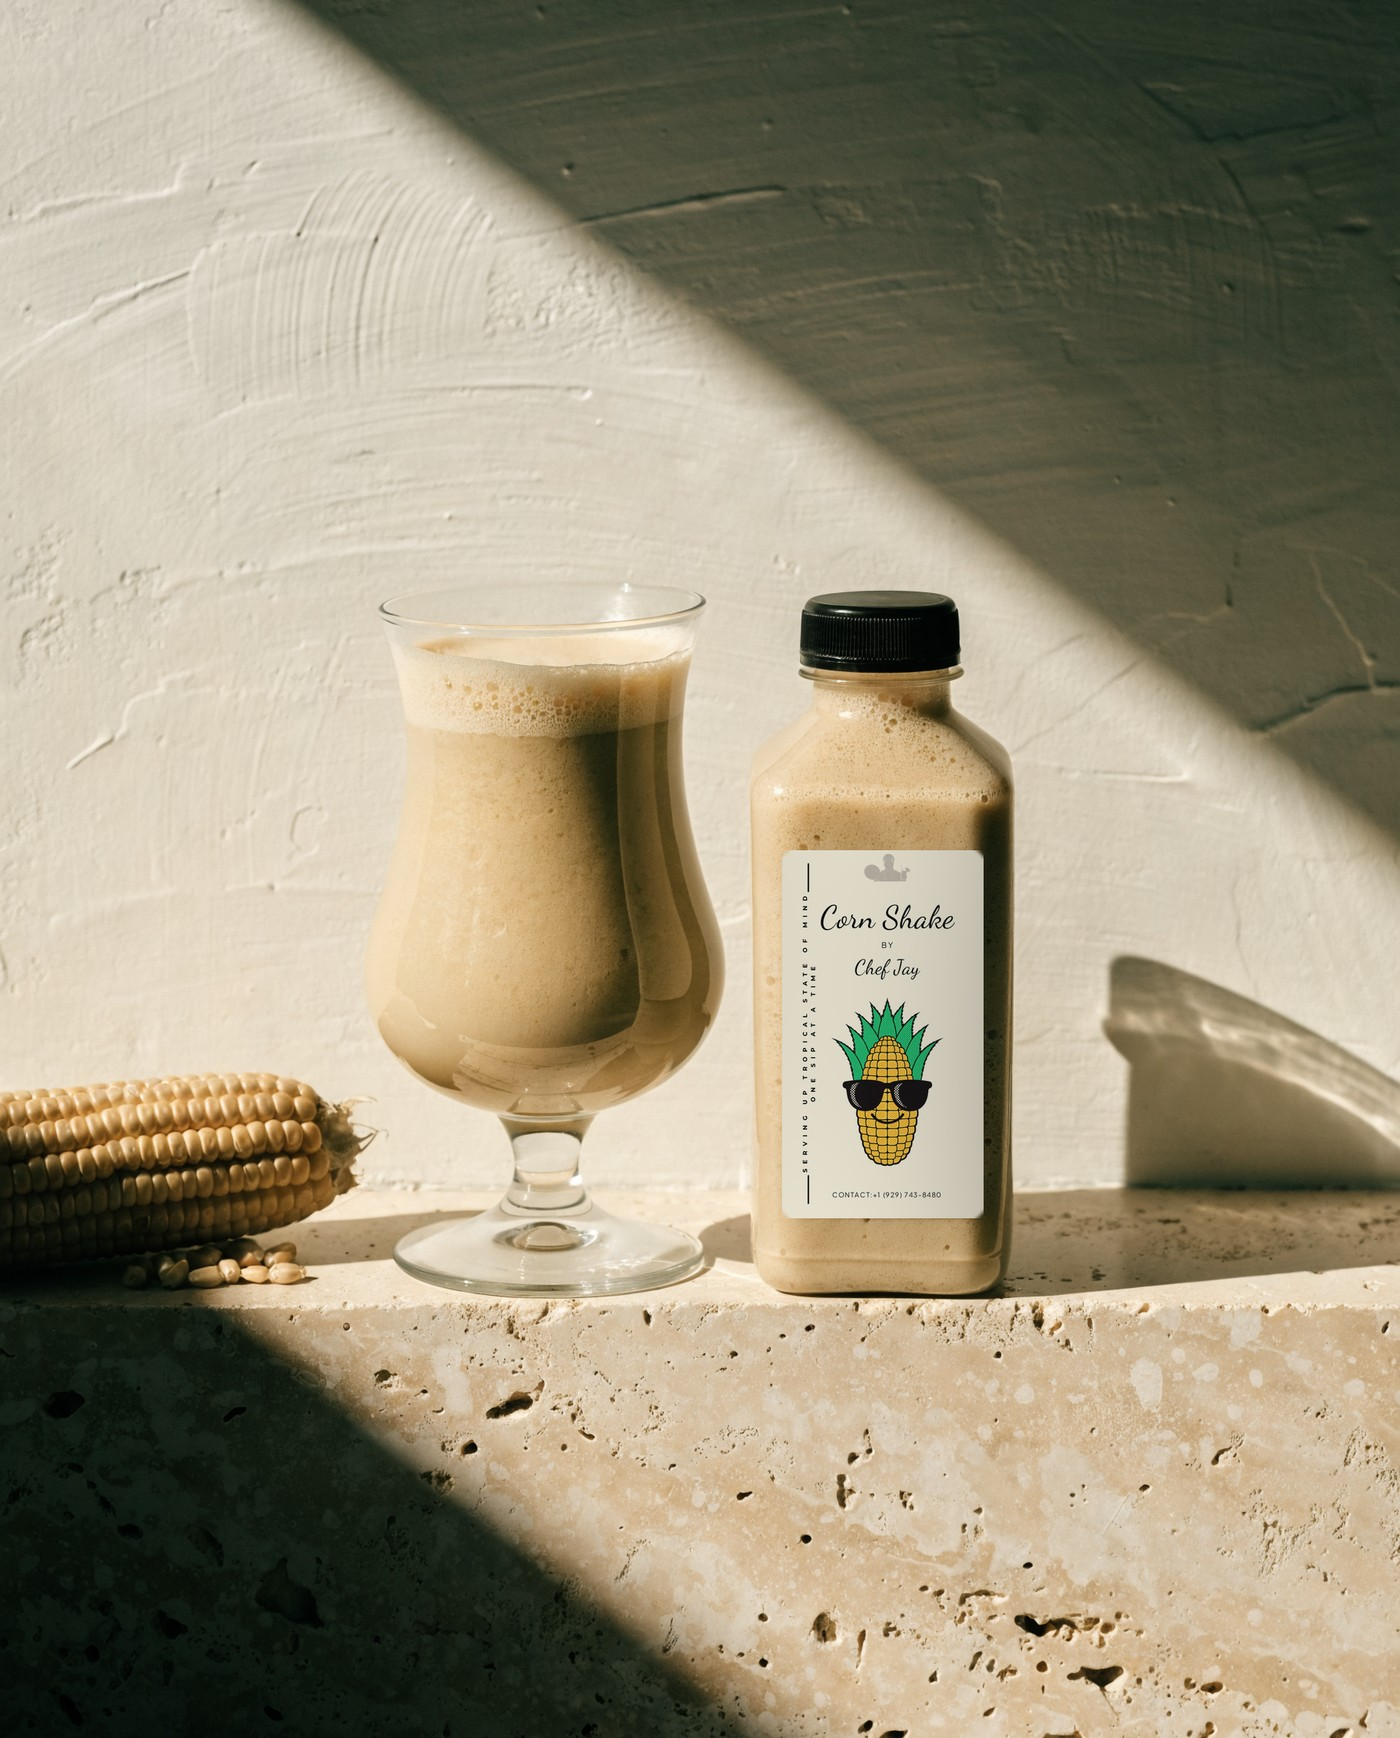
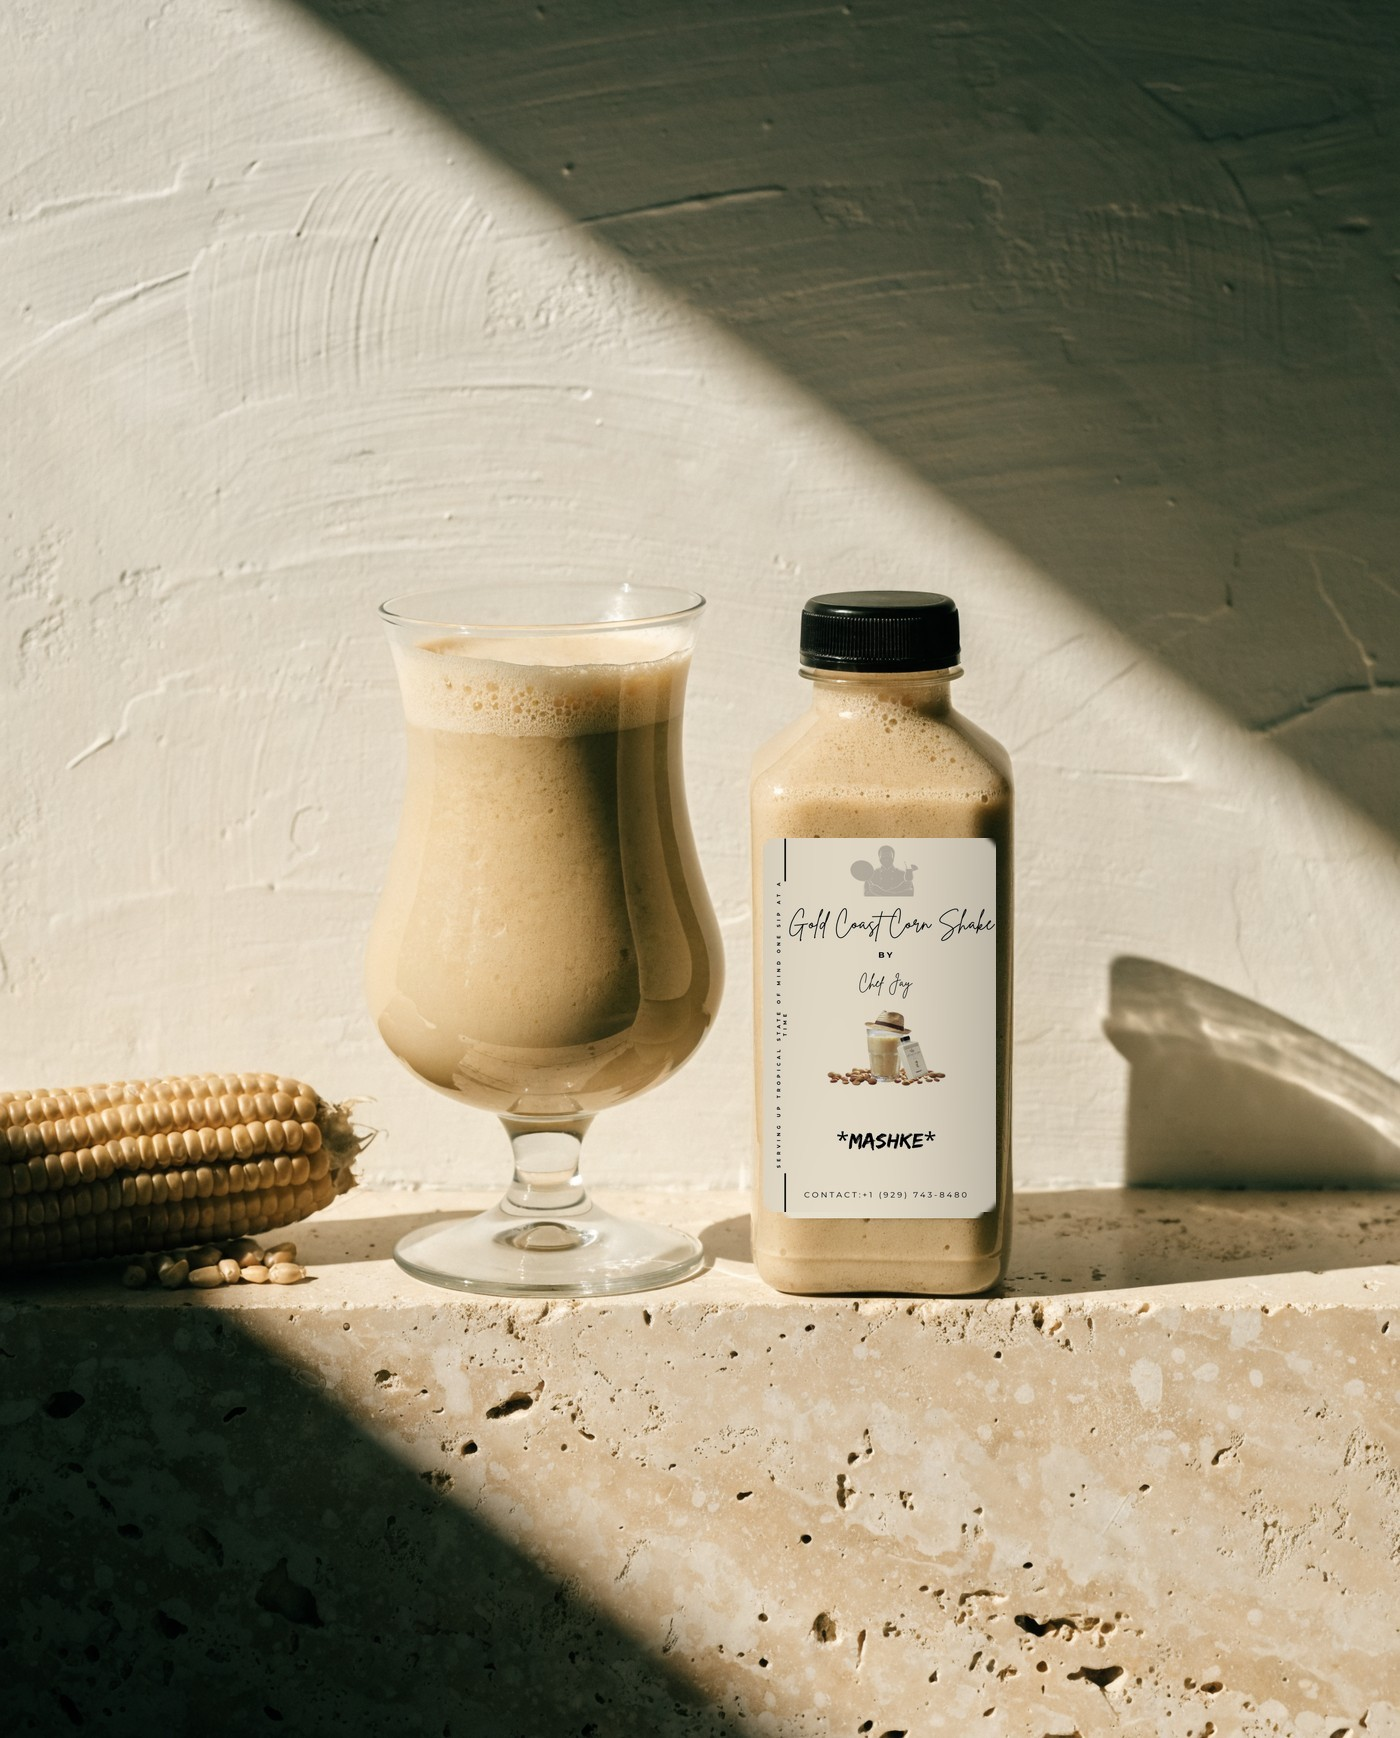
Real labels on the corn shake, and Fura alongside it
The Gold Coast Corn Shake wears its own artwork now, replacing the stand-in I
built from the Classic label — the real one carries the *MASHKE* flash, the
photograph of the drink, and the 929 number.

Fura-liscious joins at the same prices, $6.99 and $9.99. Its photograph is the
house setup, and its label needed letterboxing rather than stretching: the
blank panel on the bottle came out narrower in proportion than the artwork, and
squeezing type by 18% to fill it would have been visible. It sits on its own
paper colour instead, with margins above and below.

Both labels came in at 480x825 rather than 450x825, and both carry the current
phone number — the only two bottles on the site that do.

Its ingredient list is empty, as the corn shake's was: fura is usually
milk-based, and a guess about an allergen does not belong on a product page.
Needs the kitchen's list before this one is really finished.

Four places counted the drinks. All now say "eight coladas, and two from home".

Changed region(s): [[0.5221, 0.4661, 0.7371, 0.7146]]

diff --git a/src/app/(site)/shop/page.tsx b/src/app/(site)/shop/page.tsx
@@ -11,7 +11,7 @@ import { money } from "@/lib/format";
 export const metadata: Metadata = {
   title: "Shop",
   description:
-    "Eight piña coladas made to order — classic, mango, tigernut, peach, passion fruit, strawberry, raspberry and a less-sweet classic — plus the Gold Coast Corn Shake, iced kenkey by the bottle.",
+    "Eight piña coladas made to order — classic, mango, tigernut, peach, passion fruit, strawberry, raspberry and a less-sweet classic — plus the Gold Coast Corn Shake and Fura-liscious, iced kenkey and millet fura by the bottle.",
 };
 
 export default function ShopPage() {
@@ -19,7 +19,7 @@ export default function ShopPage() {
     <Container className="py-20 sm:py-28">
       <div className="flex flex-wrap items-baseline justify-between gap-4">
         <div>
-          <Eyebrow>Eight coladas, one corn shake</Eyebrow>
+          <Eyebrow>Eight coladas, and two from home</Eyebrow>
           <h1 className="mt-3 font-display text-5xl font-semibold leading-[0.95] sm:text-6xl">
             The fridge
           </h1>

diff --git a/src/lib/catalog.ts b/src/lib/catalog.ts
@@ -148,6 +148,19 @@ export const products: Product[] = [
     tags: ["Alcohol-free", "Contains milk"],
   },
   {
+    slug: "fura",
+    name: "Fura-liscious",
+    category: "drink",
+    blurb: "Northern Ghana's millet drink, blended smooth and poured cold.",
+    image: "/images/fura.jpg",
+    // Empty until the kitchen confirms it. Fura is usually milk-based, and
+    // milk is an allergen — a guess on a product page is worse than silence.
+    ingredients: [],
+    // Priced with the corn shake: $6.99 and $9.99.
+    sizes: size(699, 999),
+    tags: ["Alcohol-free"],
+  },
+  {
     slug: "raspberry-pina-colada",
     name: "Raspberry Piña Colada",
     category: "drink",

diff --git a/src/lib/site.ts b/src/lib/site.ts
@@ -13,7 +13,7 @@ export const site = {
 
   tagline: "Coconut, mango and pineapple, blended fresh.",
   description:
-    "Piña colada eight ways, from classic to peach and tigernut, plus the Gold Coast Corn Shake. And jollof, fried rice and goat soups from Kpataashie.",
+    "Piña colada eight ways, from classic to peach and tigernut, plus the Gold Coast Corn Shake and Fura-liscious. And jollof, fried rice and goat soups from Kpataashie.",
 
   /**
    * Public origin of the deployed site, no trailing slash. Social previews and

diff --git a/src/app/(site)/page.tsx b/src/app/(site)/page.tsx
@@ -169,7 +169,7 @@ export default function Home() {
       {/* Lineup */}
       <Band>
         <Container>
-          <SectionHead eyebrow="Eight coladas, one corn shake" title="The lineup" />
+          <SectionHead eyebrow="Eight coladas, and two from home" title="The lineup" />
           {/* All of them. A link to the rest is too easy to miss, and there is
               room on the page to simply show the lot. */}
           <div className="mt-10 grid gap-6 sm:grid-cols-2 lg:grid-cols-3">

diff --git a/brag-output/brag-plan.md b/brag-output/brag-plan.md
@@ -1,0 +1,127 @@
+# Brag Plan: Chef Jay's
+
+## What is this app?
+A storefront for a one-man drinks and catering business in Elizabeth, New Jersey: nine
+piña coladas and a Ghanaian kitchen, ordered by cart or by WhatsApp, launching with a
+grand opening offer that applies itself at checkout.
+
+## The angle
+This is not a joke product, so the video does not wink. It is a grand-opening film for a
+neighbourhood drinks brand: real bottles, real labels, real prices, and the offer landing
+in a real cart. The brag is that a one-man operation has a storefront that behaves like a
+proper one — the discount is computed, not advertised.
+
+## Hook (first 2-3 seconds)
+The hero photograph and the line the site actually opens with: **"Piña colada, by Chef
+Jay."** Held, not rushed. The drink earns the next twenty seconds before a single claim
+is made.
+
+## Key moments (the middle)
+- The lineup arriving one bottle at a time — Classic $4.99, Mango $5.99, Tigernut $6.99,
+  Gold Coast Corn Shake $6.99 — each a real product photograph with its real price.
+- Four bottles in the cart, and the discount line writing itself in:
+  `Grand opening — 4th bottle free  −$4.99`. Subtotal strikes, total lands at $23.97.
+- The kitchen: Kpataashie, with one dish name under it.
+
+## Outro / punchline
+No punchline — a sign-off. The wordmark, the dates, the address. The restraint is the
+point: the site is open, that is the whole announcement.
+
+## User flow worth showing
+Entry → key action → result:
+1. **Entry:** the shop, "The fridge", bottles on a shelf.
+2. **Key action:** a fourth bottle is added to the cart.
+3. **Result:** the grand opening line appears in the totals and takes $4.99 off.
+
+Scene 3 is the centrepiece. It is the product doing its thing rather than describing it.
+
+## Tone
+- Preset: `polished`
+- Creative direction: a quiet grand-opening film for a neighbourhood drinks brand
+- Interpretation: four scenes, long holds, soft crossfades, no caps, no exclamation. The
+  photography carries the energy; the typography stays still and lets it.
+
+## Format: landscape — 1920x1080
+## Duration: 21.8 seconds
+
+## Visual identity (from the project)
+- Background: `#fdf8ef` (cream), with `#ecdcc4` (sand) for the offer scene
+- Accent: `#b4472c` (clay) — the one accent the site allows itself
+- Text: `#241a12` (bark), secondary `#574636` (bark-soft), faint `#8a7660`
+- Display font: Fraunces (variable, SOFT 20 / WONK 1, -0.02em tracking)
+- Body font: Plus Jakarta Sans
+- Strongest visual element: the product photographs — bottle and hurricane glass on a
+  travertine ledge against sunlit limewash, one fruit per flavour
+
+## Share copy (draft)
+Chef Jay's is open: nine piña coladas, a Ghanaian kitchen, and a grand opening offer that
+takes itself off at checkout. chefjayskp.com
+
+## Audio direction
+- Role: warm bed, low and continuous, never the subject
+- Music: `happy-beats-business-moves-vol-12-by-ende-dot-app.mp3` (110 BPM, warmest and
+  slowest of the bundled set)
+- Music treatment: start at 0:00, sit low under the whole piece, gentle fade-in over the
+  first beat and a fade-out across the final second. No ducking, no build.
+- Music cue guidance: preset read from `assets/music/cues/`. Strong cues at **8.74s**,
+  **17.47s**, **18.56s**. Beat grid every ~0.55s. Target 8.74s for the fourth bottle
+  landing in the cart and 17.47s for the kitchen cut. Sequential reveals snap to *every
+  other* beat (~1.1s apart) so each line is readable.
+- Audio-reactive treatment: none. A still, confident piece; reactive motion would cheapen it.
+- SFX posture: sparse. Three at most, all motion-matched: a soft interface tick per bottle
+  arriving, one quiet confirmation when the discount line lands, nothing else.
+- Audio-coupled moments: the four bottles arriving one by one; the discount line appearing
+  in the totals.
+- Restraint rule: no whooshes, no risers, no impacts. If a sound is noticed as a sound, it
+  is wrong.
+
+## Storyboard
+
+### Scene 1 — Hook: the hero — 4.4s
+Full-bleed `public/images/hero.jpg` (tall glass, pineapple wedge, palm shadow on limewash).
+A cream scrim from the left, as on the real site. Display type sets in over it:
+**"Piña colada,"** then **"by Chef Jay"** in clay on the second line. Both hold still.
+Sequential/interaction: two-line headline, second line 0.5s after the first, then a full
+2.5s hold on the complete line.
+Audio intent: the bed arrives at a low level; nothing else.
+Audio-coupled idea: none — the hook is silent apart from the music.
+Music: warm, low, already running.
+Transition mood: soft crossfade → Scene 2
+
+### Scene 2 — The lineup — 5.4s
+Cream ground. Small eyebrow "Eight coladas, one corn shake", then four real product cards
+arrive one at a time: Classic Piña Colada $4.99, Mango $5.99, Tigernut $6.99, Gold Coast
+Corn Shake $6.99. Each card is the actual photograph from `public/images/` with the name
+and price beneath in the site's own type.
+Sequential/interaction: yes — four cards, one per two beats (~1.1s apart), each settling
+before the next. All four hold together for the last ~1s.
+Audio intent: light punctuation, so each arrival feels placed rather than animated.
+Audio-coupled idea: a soft interface tick on each card.
+Music: steady, unchanged.
+Transition mood: soft crossfade → Scene 3
+
+### Scene 3 — The offer lands — 6.6s
+Sand ground. A cart panel recreated from the real one: four line items (2 × Classic,
+Mango, Tigernut), then the totals block. Subtotal $22.96 sits for a beat. On the strong
+cue, the clay line **"Grand opening — 4th bottle free   −$4.99"** writes in, and the total
+resolves to **$23.97**. A single line beneath: "No code. It comes off by itself."
+Sequential/interaction: yes — line items are already present; the discount row appears on
+the 8.74s strong cue, then the total number counts from $28.96 to $23.97 over 0.4s.
+Audio intent: one quiet confirmation at the moment the discount appears. Nothing triumphant.
+Audio-coupled idea: the discount row landing; the total ticking down.
+Music: steady.
+Transition mood: soft crossfade → Scene 4
+
+### Scene 4 — The kitchen, then the sign-off — 5.4s
+`public/images/kpataashie.jpg` full-bleed with a bark scrim, "Kpataashie" and beneath it
+in italics "Ga for kitchen · jollof, fried rice, goat soups". Holds 2.6s, then dissolves to
+cream for the sign-off: **Chef Jay's**, then in small tracked caps
+"GRAND OPENING · 3 – 18 OCTOBER" and "chefjayskp.com".
+Sequential/interaction: wordmark first, then the two small lines together 0.6s later.
+Audio intent: the bed thins and fades out across the last second.
+Audio-coupled idea: none.
+Music: fade to silence by the final frame.
+Transition mood: final — fade to cream
+
+**Music mood for this video:** warm, unhurried, confident — business-open music, not launch-hype music.
+**Audio summary:** One low warm bed from first frame to last, two soft interface ticks under the lineup, one quiet confirmation when the discount lands, then a clean fade — the sound of a shop opening its door rather than an advert shouting.

diff --git a/brag-output/composition-brief.md b/brag-output/composition-brief.md
@@ -1,0 +1,102 @@
+# Hyperframes Composition Brief: Chef Jay's
+
+## Objective
+Create a short launch-style brag video for Chef Jay's, a drinks-and-catering storefront
+opening with a grand opening offer.
+
+## Output
+- Composition directory: `brag-output/composition/`
+- Rendered video: `brag-output/brag.mp4`
+- Format: landscape — 1920x1080
+- Duration: 21.8 seconds
+
+## Source Material
+- Project root: `/Users/ababioh_family/Developer/vincents`
+- Primary files read: `src/lib/site.ts`, `src/lib/catalog.ts`, `src/lib/promo.ts`,
+  `src/app/globals.css`, `src/app/(site)/page.tsx`, `src/app/(site)/shop/page.tsx`,
+  `src/app/(site)/kpataashie/page.tsx`, `src/components/cart/CartClient.tsx`
+- Product name: Chef Jay's
+- Tagline / strongest claim: "Piña colada, by Chef Jay"
+- Key UI moment to recreate: the cart totals block the moment the grand opening discount
+  applies itself — subtotal $22.96, `Grand opening — 4th bottle free  −$4.99`, total $23.97
+- Copy that must appear verbatim (all of it is live on the site):
+  - "Piña colada," / "by Chef Jay"
+  - "Eight coladas, one corn shake"
+  - "Classic Piña Colada" $4.99 · "Mango Piña Colada" $5.99 · "Tigernut Piña Colada" $6.99 ·
+    "Gold Coast Corn Shake" $6.99
+  - "Grand opening — 4th bottle free" / "−$4.99" / "Total" "$23.97"
+  - "Taken off automatically at checkout. No code needed."
+  - "Kpataashie" / "Ga for kitchen" / "Jollof, fried rice and goat soups, cooked to order."
+  - "Grand opening · 3 – 18 October" / "chefjayskp.com"
+
+## Creative Direction
+- Tone preset: `polished`
+- Creative direction: a quiet grand-opening film for a neighbourhood drinks brand
+- Interpretation: four scenes, long holds, soft crossfades, sentence case, no exclamation.
+  The photography carries the energy; the type stays still.
+- Angle: this is not a joke product, so the video does not wink. The brag is that a one-man
+  operation has a storefront that behaves like a proper one — the discount is computed, not
+  advertised.
+- Hook: the real hero photograph and the line the site actually opens with.
+- Outro: wordmark, dates, address. No punchline; the shop is simply open.
+- Avoid:
+  - Generic SaaS language
+  - Abstract filler visuals
+  - Unrelated visual redesign
+
+## Visual Identity
+- Background: `#fdf8ef` cream; `#ecdcc4` sand for the offer scene
+- Text: `#241a12` bark; secondary `#574636`; faint `#8a7660`
+- Accent: `#b4472c` clay (the site's single accent)
+- Display font: Fraunces (variable TTF shipped in `assets/fonts/`)
+- Body font: Plus Jakarta Sans (variable TTF shipped in `assets/fonts/`)
+- Visual references from the project: `hero.jpg`, four product shots, `kpataashie.jpg` —
+  all real photography already on the live site
+
+## Storyboard
+`brag-output/brag-plan.md` is the creative contract.
+
+Scene summary:
+1. Hook — 4.39s — hero photograph, "Piña colada, / by Chef Jay"
+2. The lineup — 5.44s — four real product cards arriving one at a time with names and prices
+3. The offer lands — 6.55s — cart totals; the discount row writes itself in; total counts down
+4. Kitchen + sign-off — 5.46s — Kpataashie still, then wordmark, dates, address
+
+## Audio
+- Audio role: warm bed with two sparse motion-matched accents
+- Audio arc: low bed from first frame; soft ticks under the arriving bottles; one warm
+  confirmation as the discount lands; fade to silence over the last second
+- Music: `assets/music/happy-beats-business-moves-vol-12-by-ende-dot-app.mp3`
+- Music treatment: from 0:00, volume ~0.3, fade-in on the first beat, fade out across the
+  final 1.2s. No ducking, no build.
+- Music cue guidance: bundled preset
+  `assets/music/cues/happy-beats-business-moves-vol-12-...music-cues.json` (110 BPM).
+  Strong cues 8.74s, 17.47s, 18.56s, 22.93s. Beat grid every ~0.55s.
+  Lock the fourth product card to **8.74s** and the sign-off wordmark to **18.56s**.
+  Sequential card reveals snap to every other beat (~1.1s) so each stays readable.
+- Audio-reactive treatment: **none, deliberately.** The tone is stillness; breathing glow
+  would read as cheap against editorial food photography. Documented as a creative choice,
+  not an extraction failure.
+- Audio-coupled moments:
+  - Scene 2 — four product cards arriving one by one (`ui/click2.ogg`, quiet)
+  - Scene 3 — discount row landing (`interface/bong_001.ogg`, one warm confirmation)
+- SFX selection guidance: sparse and motion-matched. Nothing on the hook, nothing on the
+  sign-off. Both chosen files are low high-frequency risk per `sfx-analysis.md`.
+- SFX analysis guidance: `<skill-dir>/assets/sfx/sfx-analysis.md` — low-HF-risk picks only,
+  since the ticks repeat four times.
+- Exact SFX choice: made after the animation existed, per the two moments above.
+- Audio files: copied into `brag-output/composition/assets/`
+
+## Hyperframes Instructions
+Built on the current Hyperframes contract (`hyperframes-core` for structure and `data-*`
+timing, `hyperframes-cli` for lint/check/render). Standalone root, one paused GSAP timeline
+registered at `window.__timelines["main"]`, local fonts via `@font-face`, no CSS/GSAP
+transform conflicts, every `<audio>` carries an id, no `crossorigin`.
+
+Requirements met:
+- Real product photography and real site copy throughout.
+- 21.8s, inside the 15–25s window.
+- Music plus two restrained SFX.
+- Two strong-cue locks (8.74s, 18.56s) and a beat-grid card sequence.
+- All assets local and relative.
+- `hyperframes check` is the gate before render; render stays local.
